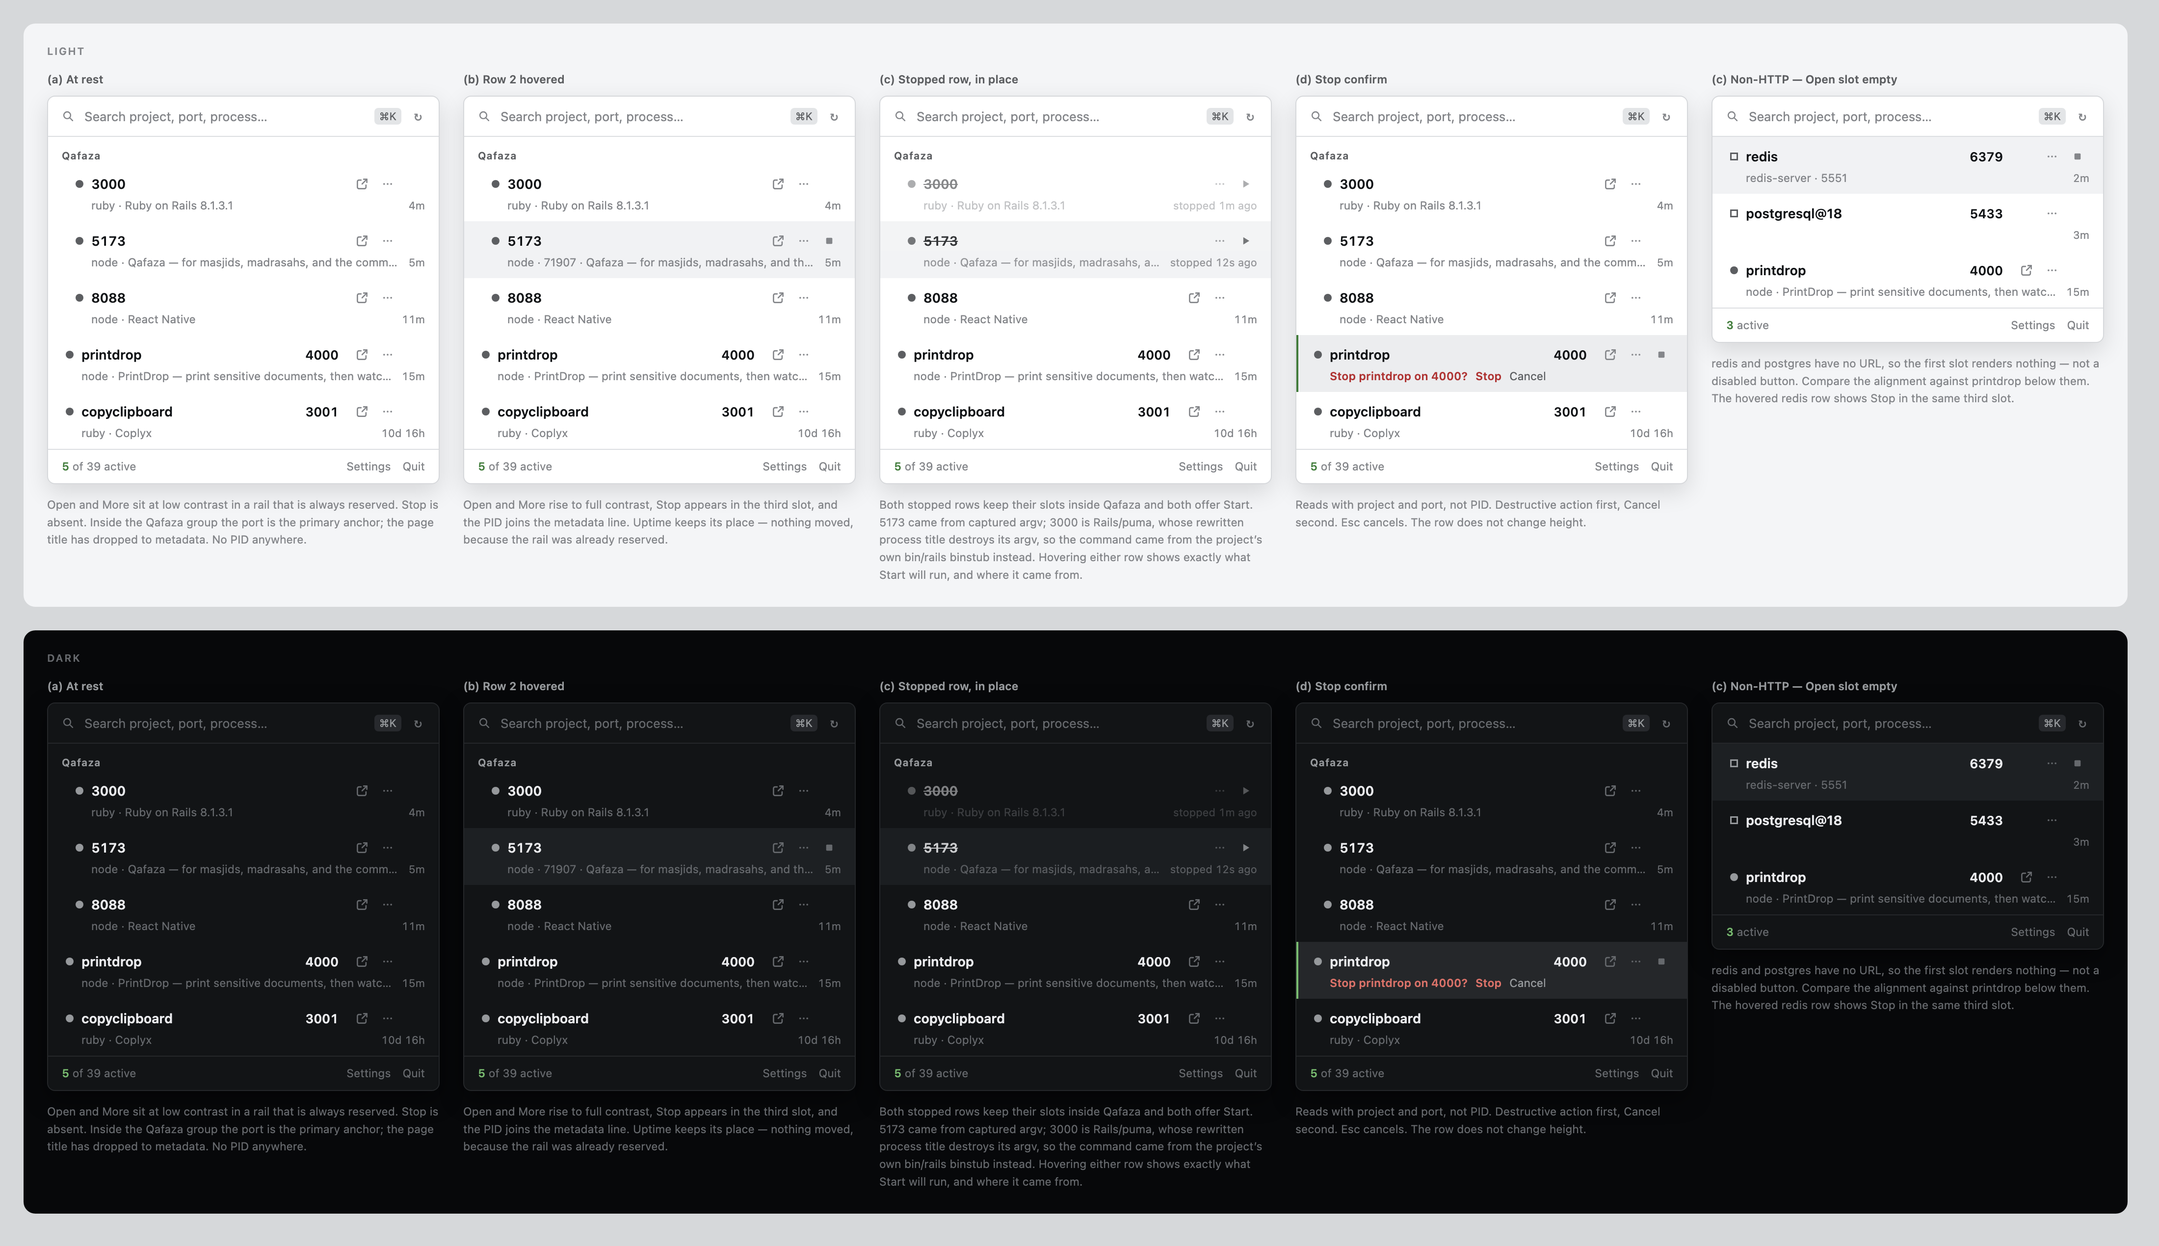
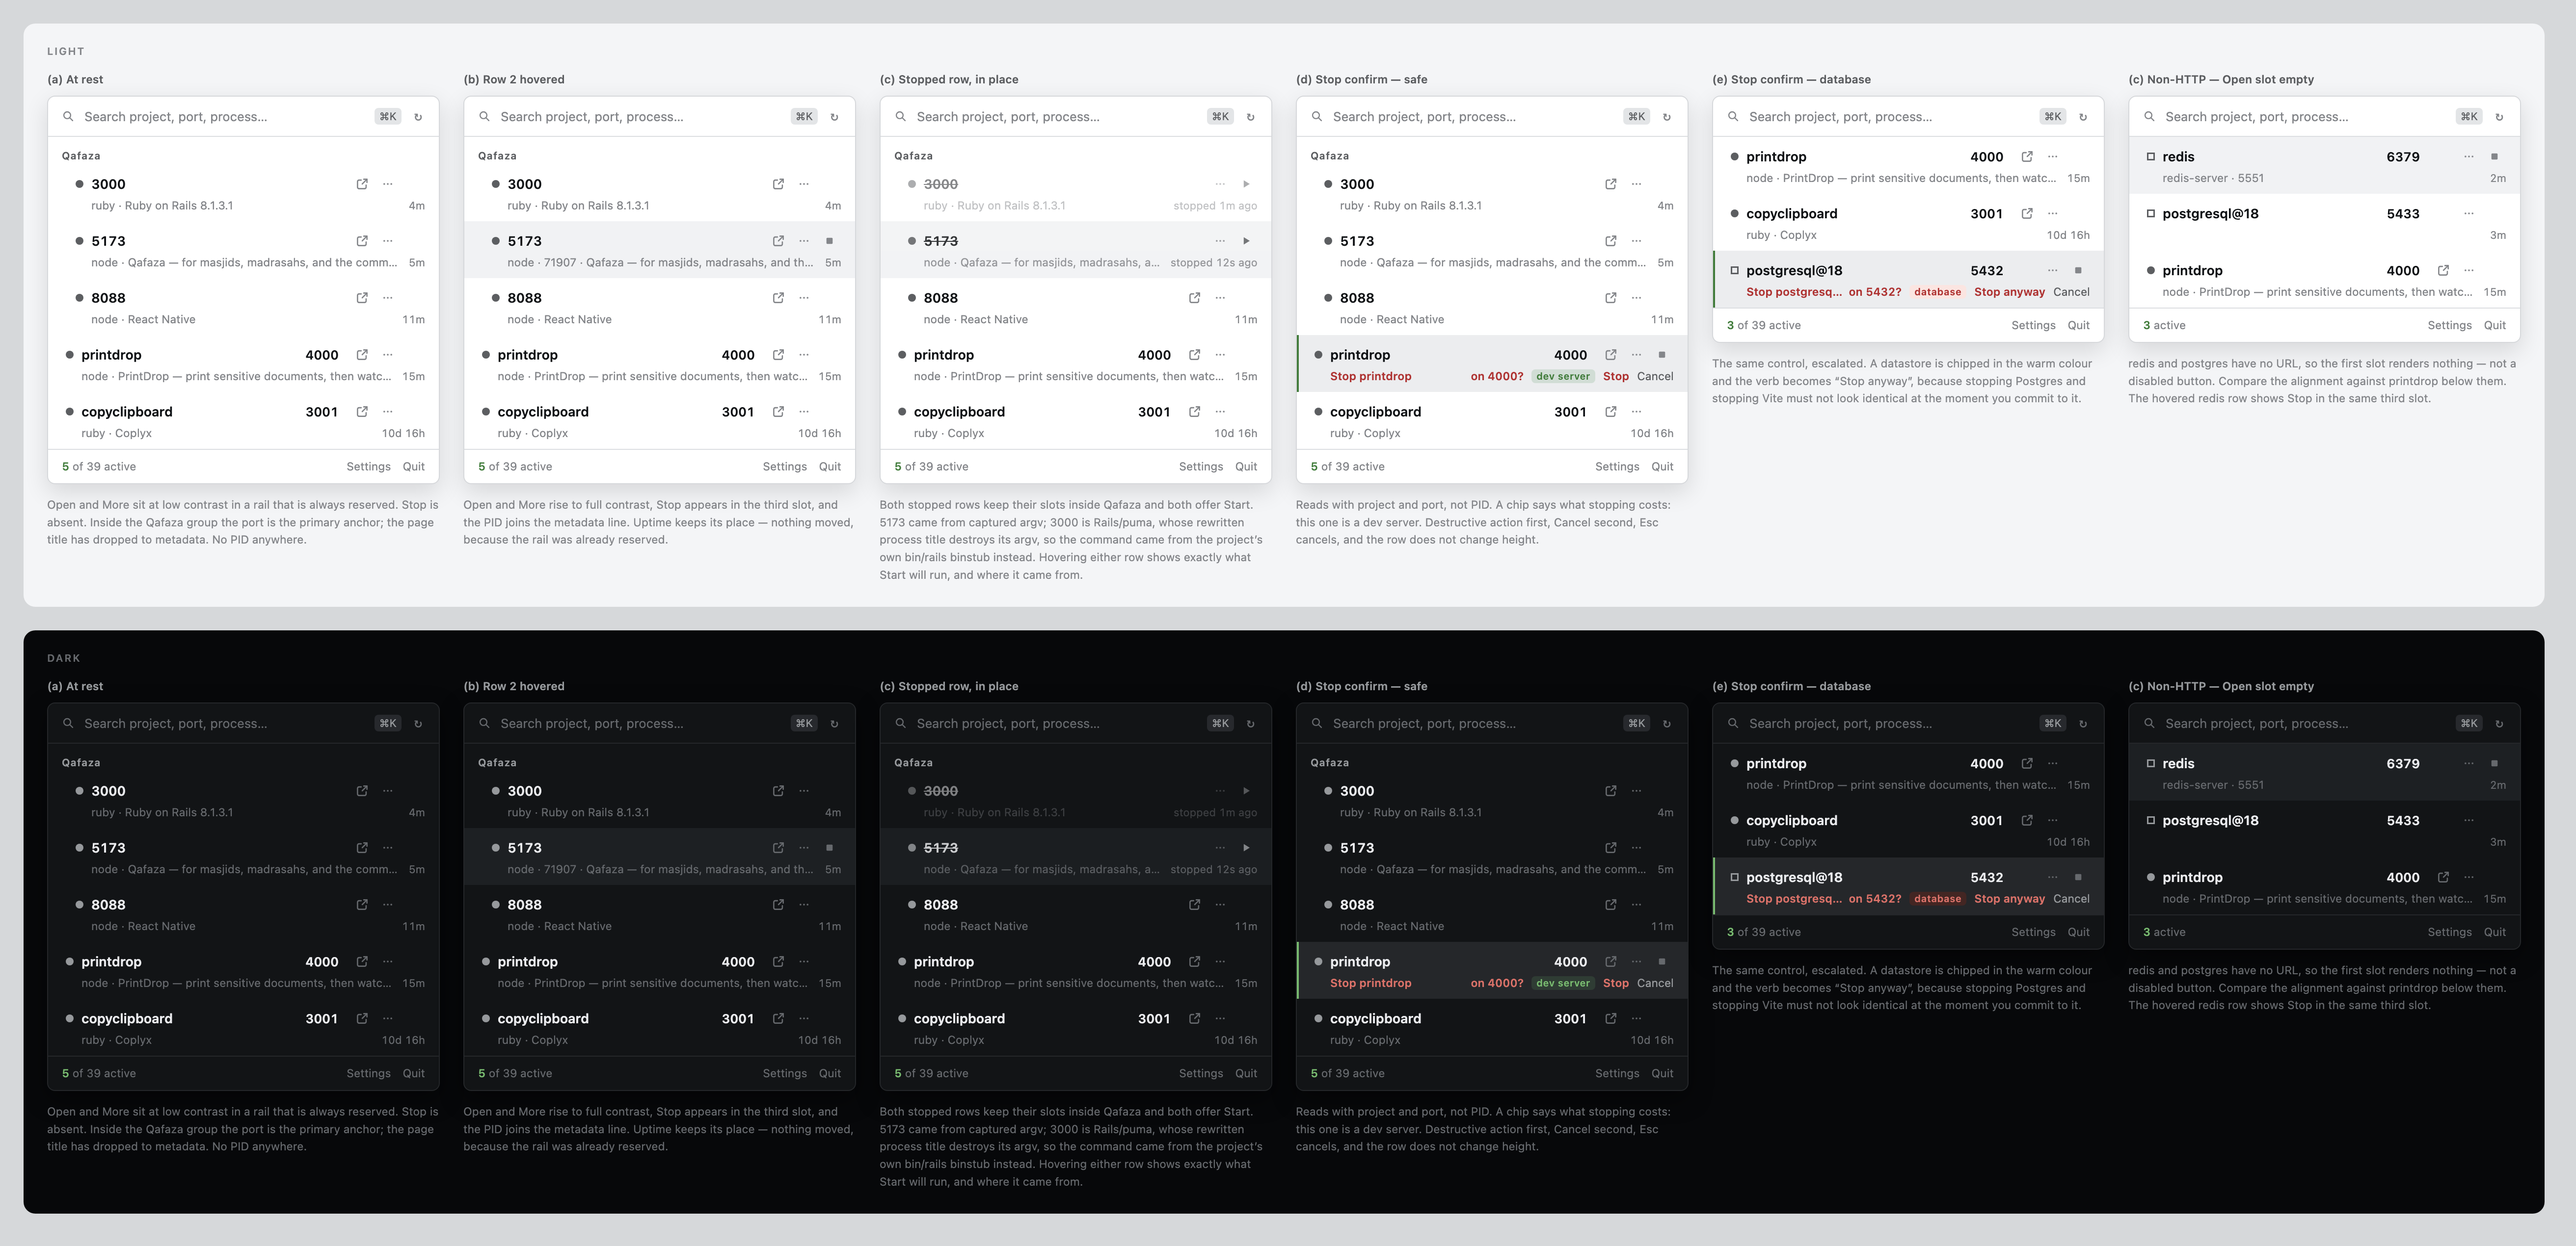
docs: document risk, portless and the CLI
Adds the review panels for both confirm states — a safe stop and an escalated
one — and measures the confirm row heights to prove the chip did not change them.

diff --git a/README.md b/README.md
@@ -42,6 +42,10 @@ them without leaving the menu bar.
 - **Reads at a glance.** Protocol is encoded in *shape*, not colour — filled dot,
   ringed dot, outline square, dashed ring — so the list survives grayscale and
   colour-blindness.
+- **Says what stopping costs.** The confirm classifies the process: stopping Vite
+  and stopping Postgres do not look the same.
+- **Works in the terminal too.** `portly 3000` prints what owns a port — see
+  [The CLI](#the-cli).
 - **Keyboard first.** `⌘K` search, `↑↓` to move, `⏎` to open, `⌫` twice to stop,
   `Esc` to back out.
 
@@ -109,6 +113,32 @@ destructive. It confirms inline, reading `Stop printdrop on 4000?` — project a
 port, not PID, because the port is what you are verifying. The destructive action
 comes first, `Esc` cancels, and the row does not change height. `SIGTERM` first,
 `SIGKILL` only if the process is still alive after 1.5 seconds.
+
+### Not all stops are equal
+
+Every guide to `EADDRINUSE` ends the same way: run `lsof`, read a PID, kill it. The
+step none of them take is telling you what you are about to kill. So the confirm
+carries a chip:
+
+| chip | meaning |
+| --- | --- |
+| `dev server` | Serves HTTP from a project directory under a development runtime. Safe. |
+| `long-running` | The same, but up for over a week — unusual for a dev server. |
+| `non-HTTP service` · `unrecognised server` | Something else. Check what depends on it. |
+| `system process` | No project directory resolved: a daemon, helper or language server. |
+| `database` | A datastore. Stopping it can lose writes that were not yet flushed. |
+
+For a datastore the verb escalates to **Stop anyway** and the chip takes the warm
+colour. Classification is derived from data the scan already has — process name,
+port, resolved project, protocol, uptime — so it costs nothing.
+
+The process name is trusted over the port, deliberately: port 7000 is Cassandra's
+default, but on a Mac it is far more often AirPlay Receiver, and mislabelling
+ControlCenter as a database would train you to ignore the chip.
+
+`SIGTERM` always comes first, and `SIGKILL` only if the process ignores it for
+1.5 seconds. That is stated on the row tooltip, because a tool that can kill your
+work should say how it does it.
 
 **A stopped row keeps its place.** It stays exactly where it was, in its group,
 dimmed, with its port struck through and its uptime replaced by `stopped 12s ago`.
@@ -178,6 +208,67 @@ Read this before relying on it.
   within 10s, returns the row to its stopped state and puts the captured stderr on
   the row's tooltip and in its ⋯ menu.
 
+## Named URLs (portless)
+
+[portless](https://github.com/vercel-labs/portless) solves the same problem from
+the opposite direction: it runs a local proxy and gives each project a stable
+`https://myapp.localhost` name, so you never see the port. It ships no UI.
+
+When a listener is behind a portless route, Portly shows the name in the row's
+metadata line and opens the named URL instead of `localhost:<port>`. The port stays
+as the row's anchor, because the port is still what an `EADDRINUSE` reports and
+what you need when something else grabs it.
+
+The integration is read-only and deliberately paranoid. It reads
+`~/.portless/routes.json` — verified against portless 0.15.5 as a JSON array of
+`{ hostname, port, pid }`, matched on the same `port + pid` identity Portly already
+uses. portless is pre-1.0 and its README states that the state directory format may
+change between releases, so every failure path here is silent: a missing,
+unreadable or unfamiliar file simply means no names, and rows render exactly as
+they did before.
+
+## The CLI
+
+People hit `EADDRINUSE` and search the error, not the app. `portly` answers the
+same question from the terminal, sharing the scanner with the app so the two can
+never disagree.
+
+```
+$ portly 5173
+5173  Qafaza
+  process  node · pid 3692
+  uptime   1h 55m · 80 MB
+  url      http://localhost:5173
+  title    Qafaza — for masjids, madrasahs, and the community around them
+  cwd      /Users/you/Desktop/Qafaza/web
+  stopping dev server — Serves HTTP from a project directory under a development
+                        runtime. Safe to stop.
+```
+
+```
+$ portly
+Qafaza
+    3000  dev server          1h 56m     puma
+    5173  dev server          1h 56m     node
+    8088  long-running        8d 10h     node
+printdrop
+    4000  dev server          4d 2h      node
+
+8 of 39 listeners  (31 non-HTTP hidden — use --all)
+```
+
+| | |
+| --- | --- |
+| `portly` | every listener, grouped by project |
+| `portly <port>` | what owns a port |
+| `portly <port> --stop` | stop it, after printing what it is |
+| `portly [<port>] --json` | machine-readable |
+| `portly --all` | include non-HTTP listeners |
+
+`--stop` refuses to touch anything classified `database` — that needs a deliberate
+`kill` from you, not a convenience flag. Colour is only emitted when stdout is a
+terminal, so pipes stay clean.
+
 ## Design notes
 
 The interface borrows from macOS system UI rather than the dark-dashboard default
@@ -210,7 +301,10 @@ npm run icons          # regenerate every icon asset from shared/marks.ts
 npm run mockup         # render mockups/portly-states.png
 npm run hero           # render mockups/hero.png
 npm run tray:compare   # render the 16px tray verification sheet
+npm run build:cli      # bundle the portly CLI to dist-cli/
 ```
+
+`npm link` puts `portly` on your PATH for local testing.
 
 ### Layout
 
@@ -221,6 +315,8 @@ electron/
   project.ts   project-name resolution (git root, generic, uniqueness)
   restart.ts   argv capture via ancestor walk, persistence, spawn
   infer.ts     start-command inference from project config
+  risk.ts      what stopping a listener would cost
+  portless.ts  read-only portless route registrations
   exec.ts      shared lsof/ps/git helpers
   preload.ts   contextBridge surface (contextIsolation on, sandbox on)
 shared/
@@ -232,6 +328,8 @@ src/
   icons.tsx    the matched icon set, one 16px grid, 1.5px strokes
   tokens.css   oklch ramps, radii, spacing — light and dark
   app.css      component styles
+cli/
+  portly.ts    the terminal front-end, sharing the app's scanner
 scripts/
   icons.ts          every icon asset, rasterised through Chromium
   capture.cjs       offscreen render → mockups/*.png
